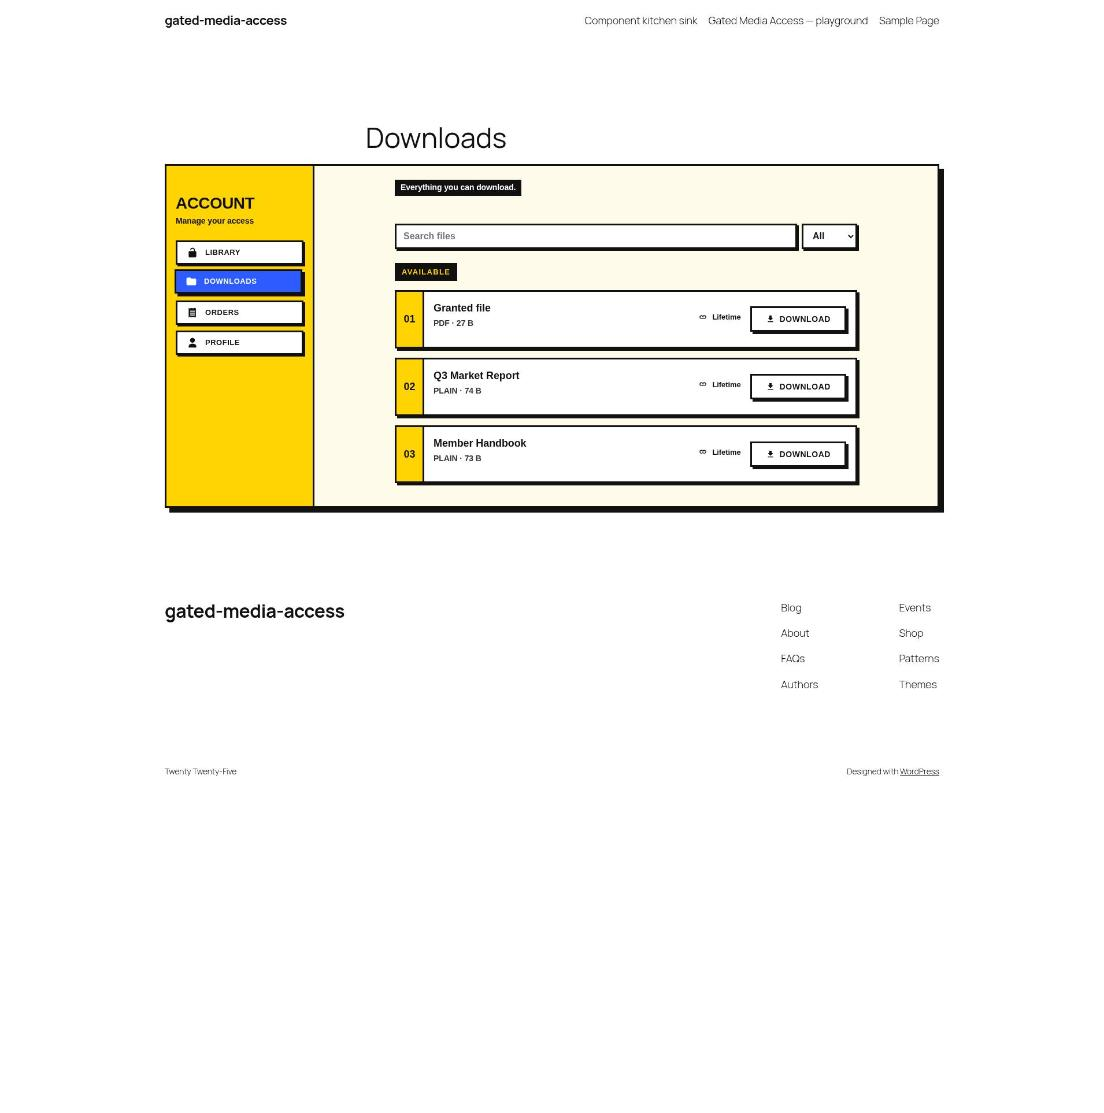
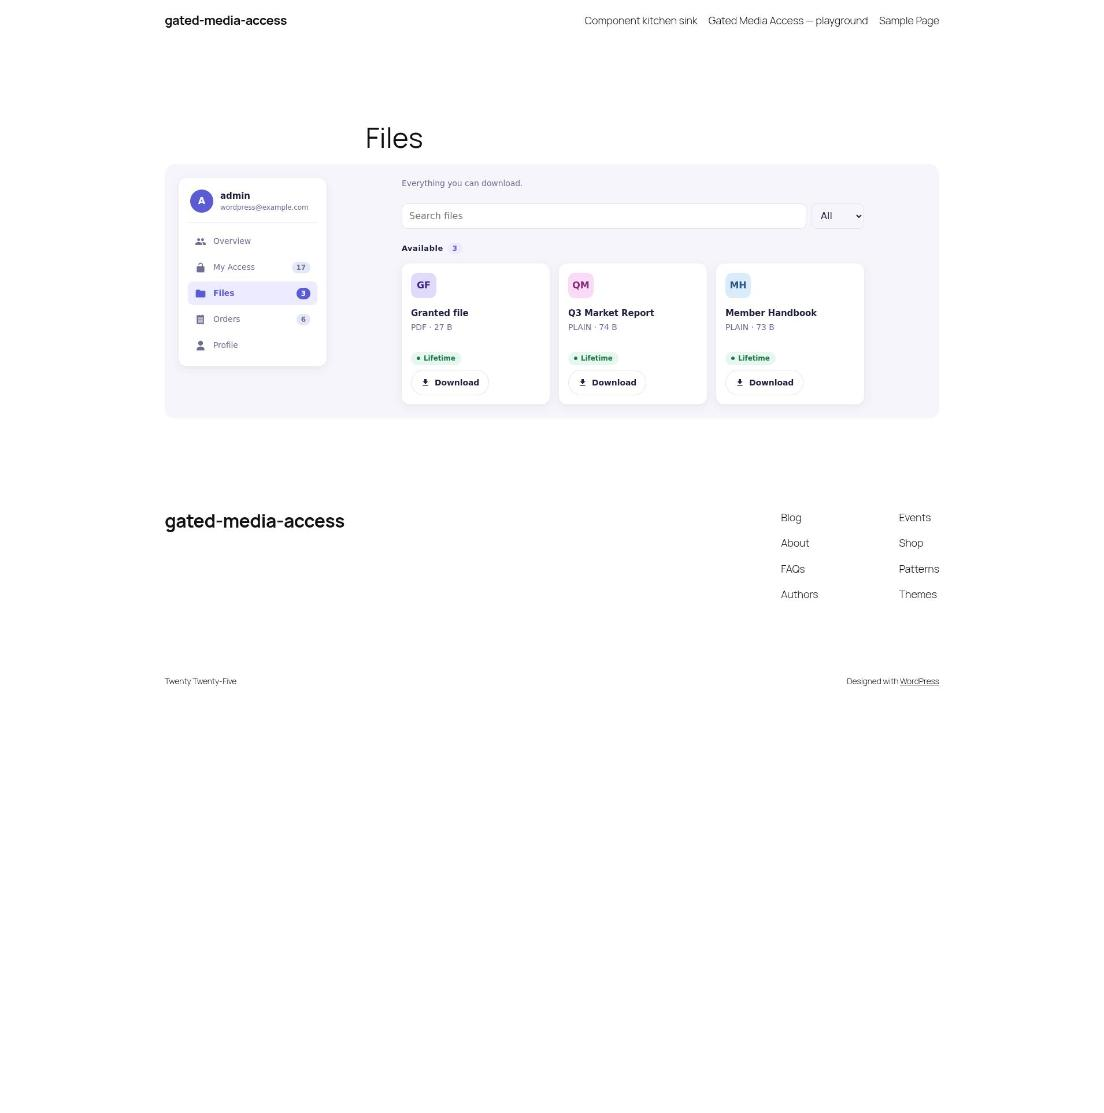
Show the rebuilt restyle in the customising guide
Replaces the screenshots with the restyle plugin's server-side rebuild, adds its Overview section, and swaps the examples for a row rebuilt from its attributes and a section added through gatedmedia_account_sections.

diff --git a/docs/customising.md b/docs/customising.md
@@ -1,6 +1,6 @@
 # Customising
 
-Every part of the front end is a block rendered on the server and styled by one stylesheet, `gatedmedia-front`. So a plugin of your own can change how any of it looks and what it draws, without editing this plugin or the theme.
+Every part of the front end is a block rendered on the server and styled by one stylesheet, `gatedmedia-front`. So a plugin of your own can rebuild any component, add pages of its own and restyle the lot, without editing this plugin or the theme.
 
 [gated-media-access-restyle](https://github.com/gin0115/gated-media-access-restyle) is a working example that uses all three ways in below. **[Try it in WordPress Playground](https://playground.wordpress.net/?blueprint-url=https://raw.githubusercontent.com/gin0115/gated-media-access-restyle/main/blueprint.json)**.
 
@@ -10,6 +10,63 @@ Every part of the front end is a block rendered on the server and styled by one 
 | ![Files, before](images/restyle-before-files.jpg) | ![Files, after](images/restyle-after-files.jpg) |
 | ![Orders, before](images/restyle-before-orders.jpg) | ![Orders, after](images/restyle-after-orders.jpg) |
 | ![Profile, before](images/restyle-before-profile.jpg) | ![Profile, after](images/restyle-after-profile.jpg) |
+
+It also adds a page of its own, first in the nav:
+
+![An Overview section added by the restyle plugin](images/restyle-after-overview.jpg)
+
+## Block filters
+
+Core gives every block `render_block_data`, which changes its attributes before it renders, and `render_block_{name}`, which changes its markup after. The components go through `do_blocks()` whether the account route drew them or an editor placed them, so both filters reach every one.
+
+A `render_block_{name}` callback gets the block's attributes, so it can rebuild the markup outright rather than patch it. A row's aside arrives already rendered in `$block['innerHTML']`.
+
+```php
+// Every row as a card with an initial tile.
+add_filter(
+	'render_block_gated-media-access/row',
+	function ( string $content, array $block ): string {
+		$title = (string) ( $block['attrs']['title'] ?? '' );
+
+		// Loading and unavailable rows keep their own markup.
+		if ( '' === $title || 'normal' !== ( $block['attrs']['state'] ?? 'normal' ) ) {
+			return $content;
+		}
+
+		return sprintf(
+			'<div class="gatedmedia-row my-card"><span class="my-card__tile">%s</span><div class="gatedmedia-row__main"><p class="gatedmedia-row__title">%s</p></div><div class="gatedmedia-row__aside">%s</div></div>',
+			esc_html( mb_substr( $title, 0, 1 ) ),
+			esc_html( $title ),
+			$block['innerHTML']
+		);
+	},
+	10,
+	2
+);
+```
+
+Keep `gatedmedia-row`, and `data-gatedmedia-type` where the row had one: the Files search and type filter find rows by them.
+
+## The plugin's own filters
+
+For what is drawn rather than how. A section is added with `gatedmedia_account_sections` and draws whatever block it names, and the data filters (`gatedmedia_my_access_data`, `gatedmedia_files_data`, `gatedmedia_orders_data`) hand that block the same lists the plugin's own views use. Position 5 puts it before My Access, so the account area lands on it.
+
+```php
+add_filter(
+	'gatedmedia_account_sections',
+	fn( Section_Collection $sections ): Section_Collection => $sections->add(
+		new Section(
+			slug:       'overview',
+			title:      __( 'Overview', 'my-plugin' ),
+			menu_label: __( 'Overview', 'my-plugin' ),
+			block:      'my-plugin/overview',
+			position:   5,
+		)
+	)
+);
+```
+
+Every hook is in [Hooks](hooks.md).
 
 ## CSS
 
@@ -29,61 +86,7 @@ add_action(
 
 ```css
 :root {
-	--gatedmedia-primary: #2d5bff;
-	--gatedmedia-radius: 0;
+	--gatedmedia-primary: #5b5bd6;
+	--gatedmedia-radius: 10px;
 }
-
-.gatedmedia-row {
-	border: 3px solid #111;
-	box-shadow: 4px 4px 0 #111;
-}
-```
-
-## Block filters
-
-Core gives every block `render_block_data`, which changes its attributes before it renders, and `render_block_{name}`, which changes its markup after. The components go through `do_blocks()` whether the account route drew them or an editor placed them, so both filters reach every one.
-
-```php
-// A numbered tab on the front of every row.
-add_filter(
-	'render_block_gated-media-access/row',
-	function ( string $content ): string {
-		static $index = 0;
-
-		return preg_replace(
-			'/<div class="gatedmedia-row__main">/',
-			sprintf( '<span class="my-row__index">%02d</span>$0', ++$index ),
-			$content,
-			1
-		);
-	}
-);
-```
-
-```php
-// Active access reads as Live, unless the caller gave its own label.
-add_filter(
-	'render_block_data',
-	function ( array $block ): array {
-		if ( 'gated-media-access/status-pill' === $block['blockName']
-			&& 'active' === ( $block['attrs']['value'] ?? 'active' )
-			&& '' === ( $block['attrs']['label'] ?? '' ) ) {
-			$block['attrs']['label'] = 'Live';
-		}
-
-		return $block;
-	}
-);
-```
-
-## The plugin's own filters
-
-For what is drawn rather than how: section names and order through `gatedmedia_account_sections`, the lists through the data filters, amounts through `gatedmedia_format_price`. Every one is in [Hooks](hooks.md).
-
-```php
-// £15.00 shows as £15.
-add_filter(
-	'gatedmedia_format_price',
-	fn( string $formatted ): string => preg_replace( '/[.,]00(?!\d)/', '', $formatted )
-);
 ```
